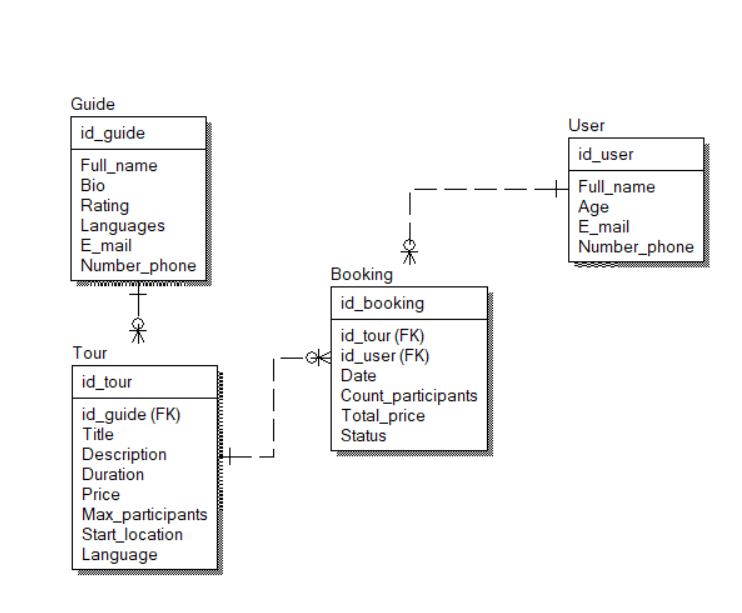
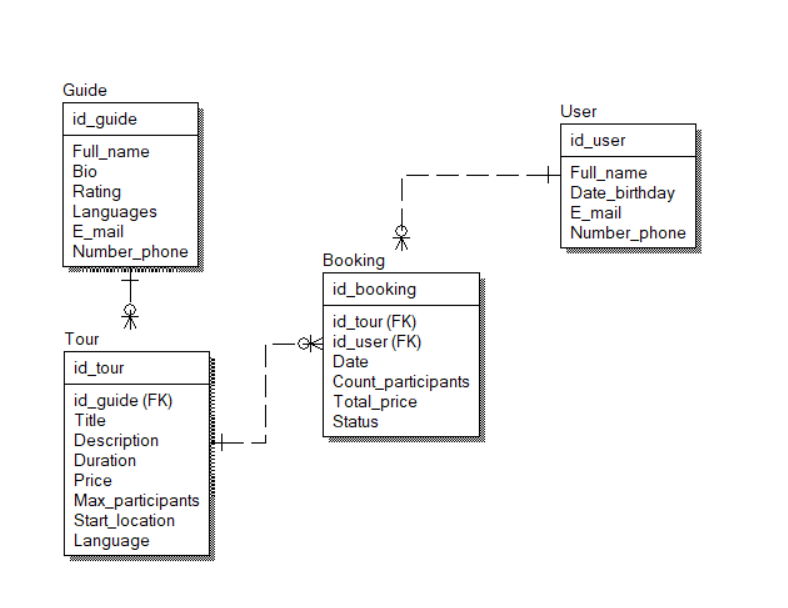
abdrahmanova try1

diff --git a/app/G91/abdrahmanova.evgeniya/lab7/src/main/java/ru/vsu/amm/java/Entities/Booking.java b/app/G91/abdrahmanova.evgeniya/lab7/src/main/java/ru/vsu/amm/java/Entities/Booking.java
@@ -1,5 +1,7 @@
 package ru.vsu.amm.java.Entities;
 
+import ru.vsu.amm.java.Enums.Status;
+
 import java.time.LocalDate;
 
 public class Booking {
@@ -9,9 +11,9 @@ public class Booking {
     private LocalDate date;
     private int countParticipants;
     private int totalPrice;
-    private String status;
+    private Status status;
 
-    public Booking(int id, int idTour, int idUser, LocalDate date, int countParticipants, int totalPrice, String status) {
+    public Booking(int id, int idTour, int idUser, LocalDate date, int countParticipants, int totalPrice, Status status) {
         this.id = id;
         this.idTour = idTour;
         this.idUser = idUser;
@@ -39,6 +41,6 @@ public class Booking {
     public int getTotalPrice() { return totalPrice; }
     public void setTotalPrice(int totalPrice) { this.totalPrice = totalPrice; }
 
-    public String getStatus() { return status; }
-    public void setStatus(String status) { this.status = status; }
+    public Status getStatus() { return status; }
+    public void setStatus(Status status) { this.status = status; }
 }

diff --git a/app/G91/abdrahmanova.evgeniya/lab7/src/main/java/ru/vsu/amm/java/Entities/User.java b/app/G91/abdrahmanova.evgeniya/lab7/src/main/java/ru/vsu/amm/java/Entities/User.java
@@ -18,13 +18,18 @@ public class User {
     }
 
     public int getId() { return id; }
-    public void setId(int id) {this.id = id;}
+    public void setId(int id) { this.id = id; }
 
     public String getFullName() { return fullName; }
     public void setFullName(String fullName) { this.fullName = fullName; }
 
     public LocalDate getBirthday() { return birthday; }
-    public void setBirthday(LocalDate birthday) { this.birthday = birthday; }
+    public void setBirthday(LocalDate birthday) {
+        LocalDate earliestAllowed = LocalDate.of(1884, 1, 1);
+        if (birthday.isBefore(earliestAllowed)) {
+            throw new IllegalArgumentException("invalid birthday!");
+        }
+        this.birthday = birthday; }
 
     public String geteMail() { return eMail; }
     public void seteMail(String eMail) { this.eMail = eMail; }

diff --git a/app/G91/abdrahmanova.evgeniya/lab7/src/main/java/ru/vsu/amm/java/Entities/Guide.java b/app/G91/abdrahmanova.evgeniya/lab7/src/main/java/ru/vsu/amm/java/Entities/Guide.java
@@ -6,7 +6,7 @@ public class Guide {
     private int id;
     private String fullName;
     private String bio;
-    private float rating;
+    private double rating;
     private Language languages;
     private String eMail;
     private String numberPhone;
@@ -30,8 +30,8 @@ public class Guide {
     public String getBio() { return bio; }
     public void setBio(String bio) { this.bio = bio; }
 
-    public float getRating() { return rating; }
-    public void setRating(float rating) { this.rating = rating; }
+    public double getRating() { return rating; }
+    public void setRating(double rating) { this.rating = rating; }
 
     public Language getLanguages() { return languages; }
     public void setLanguages(Language languages) { this.languages = languages; }

diff --git a/app/G91/abdrahmanova.evgeniya/lab7/src/main/java/ru/vsu/amm/java/Enums/Status.java b/app/G91/abdrahmanova.evgeniya/lab7/src/main/java/ru/vsu/amm/java/Enums/Status.java
@@ -1,0 +1,10 @@
+package ru.vsu.amm.java.Enums;
+
+public enum Status {
+    PENDING, //ожидпние подтаержднни
+    CONFIRMED, //подтвержлено
+    CANCELLED, //отменено
+    COMPLETED, //завершено
+    REFUNDED, //возвращено
+    FAILED //ошибка оплаты
+}
